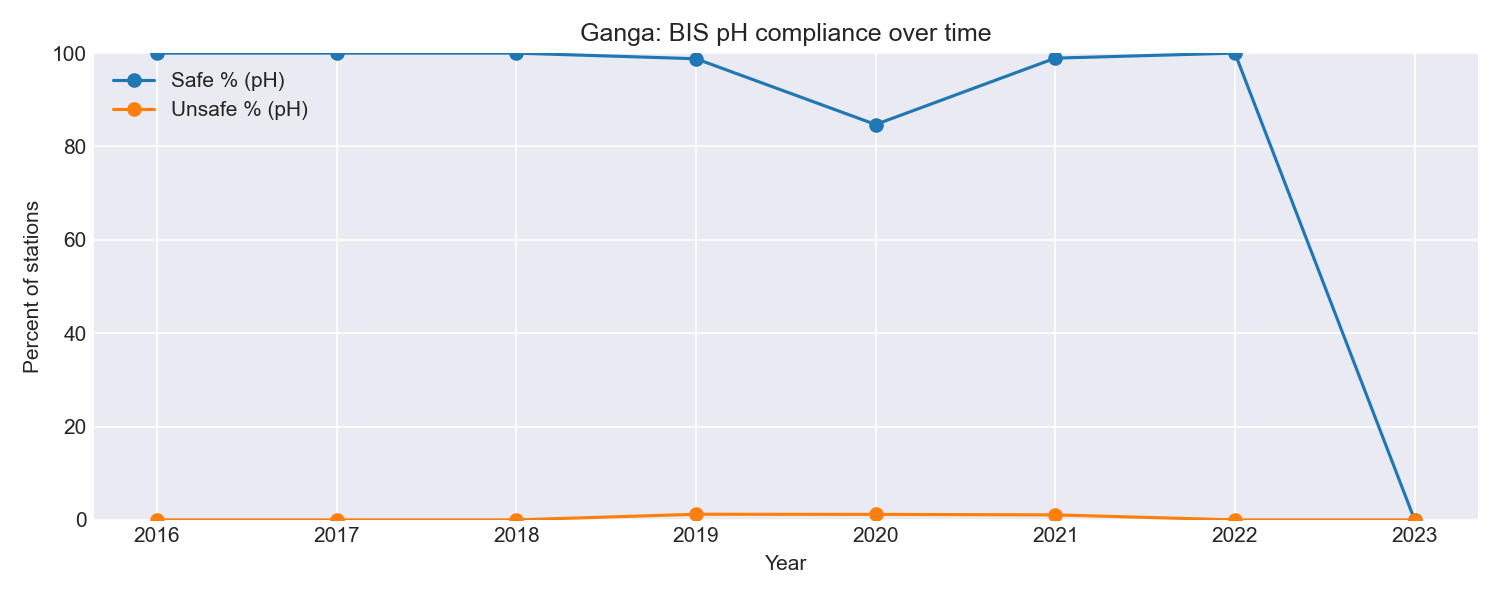
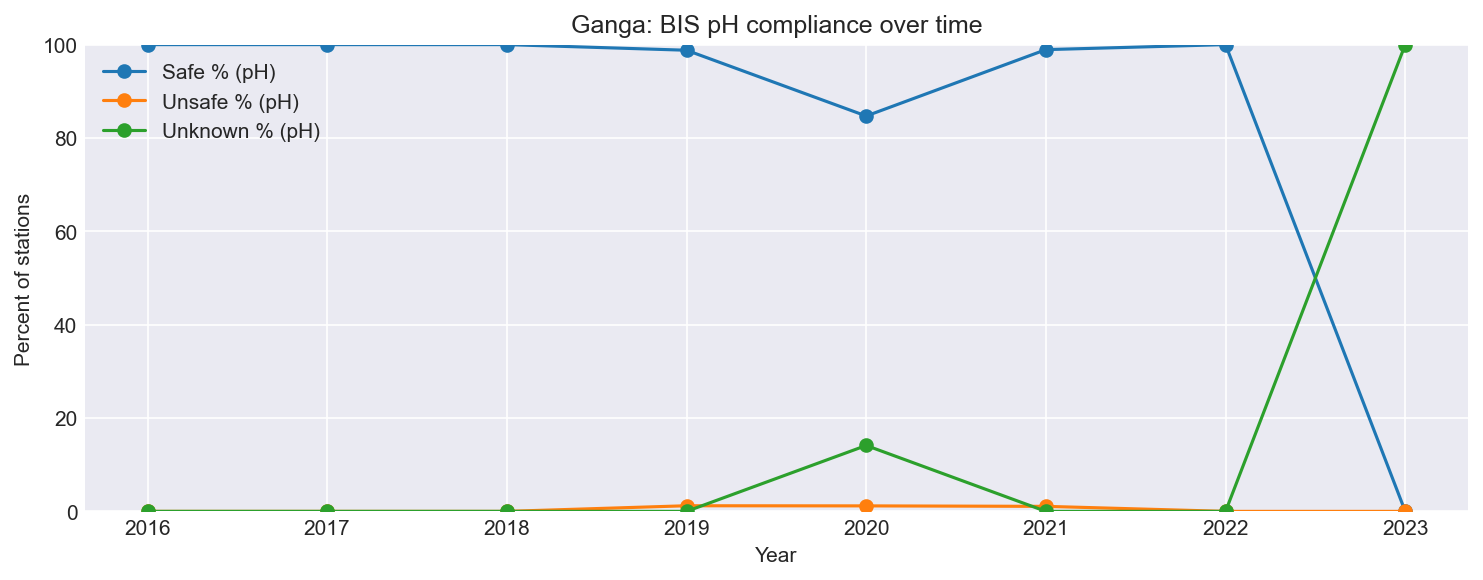
small update

diff --git a/scripts/river_analysis_and_plots.py b/scripts/river_analysis_and_plots.py
@@ -196,14 +196,12 @@ def analyze_river(df, river_name, out_dir):
         plt.title(f"{river_name}: yearly mean pH by state")
         plt.xlabel("Year")
         plt.ylabel("pH")
-        # Move legend below the plot to avoid covering x‑axis
         plt.legend(loc="upper center", bbox_to_anchor=(0.5, -0.15),
                    ncol=3, fontsize=8)
-        plt.subplots_adjust(bottom=0.25)  # extra space for legend
+        plt.subplots_adjust(bottom=0.25)
         plt.savefig(os.path.join(out_dir, f"{base}_pH_trend.png"), dpi=150,
                     bbox_inches="tight")
         plt.close()
-
 
     # 2) Station x Year pH heatmap
     piv = sub.pivot_table(index="station", columns="year", values="pH", aggfunc="mean")
@@ -228,50 +226,65 @@ def analyze_river(df, river_name, out_dir):
         plt.savefig(os.path.join(out_dir, f"{base}_pH_top5.png"), dpi=150)
         plt.close()
 
-    # 4) BIS pH compliance over time
+    # 4) BIS pH compliance over time (SAFE/UNSAFE/UNKNOWN)
     yearly_bis = (
         sub.assign(year=sub["year"].astype(int))
            .groupby(["year","bis_status"])["station"].nunique()
            .unstack(fill_value=0)
            .reset_index()
     )
-    yearly_bis["TOTAL"] = yearly_bis.drop(columns=["year"]).sum(axis=1)
     for k in ["SAFE","UNSAFE","UNKNOWN"]:
-        if k not in yearly_bis.columns: yearly_bis[k] = 0
-    yearly_bis["SAFE_%"] = 100.0 * yearly_bis["SAFE"] / yearly_bis["TOTAL"].replace(0, np.nan)
-    yearly_bis["UNSAFE_%"] = 100.0 * yearly_bis["UNSAFE"] / yearly_bis["TOTAL"].replace(0, np.nan)
+        if k not in yearly_bis.columns:
+            yearly_bis[k] = 0
+    yearly_bis["TOTAL"]     = yearly_bis["SAFE"] + yearly_bis["UNSAFE"] + yearly_bis["UNKNOWN"]
+    yearly_bis["SAFE_%"]    = 100.0 * yearly_bis["SAFE"]    / yearly_bis["TOTAL"].replace(0, np.nan)
+    yearly_bis["UNSAFE_%"]  = 100.0 * yearly_bis["UNSAFE"]  / yearly_bis["TOTAL"].replace(0, np.nan)
+    yearly_bis["UNKNOWN_%"] = 100.0 * yearly_bis["UNKNOWN"] / yearly_bis["TOTAL"].replace(0, np.nan)
+
     plt.figure(figsize=(10,4))
-    plt.plot(yearly_bis["year"], yearly_bis["SAFE_%"], marker="o", label="Safe % (pH)")
+    plt.plot(yearly_bis["year"], yearly_bis["SAFE_%"],   marker="o", label="Safe % (pH)")
     plt.plot(yearly_bis["year"], yearly_bis["UNSAFE_%"], marker="o", label="Unsafe % (pH)")
-    plt.ylim(0, 100); plt.ylabel("Percent of stations"); plt.xlabel("Year")
+    plt.plot(yearly_bis["year"], yearly_bis["UNKNOWN_%"],marker="o", label="Unknown % (pH)")
+    plt.ylim(0, 100)
+    plt.ylabel("Percent of stations"); plt.xlabel("Year")
     plt.title(f"{river_name}: BIS pH compliance over time")
     plt.legend(); plt.tight_layout()
-    plt.savefig(os.path.join(out_dir, f"{base}_bis_compliance_over_time.png"), dpi=150); plt.close()
-    yearly_bis.to_csv(os.path.join(out_dir, f"{base}_bis_compliance_over_time.csv"), index=False)
+    plt.savefig(os.path.join(out_dir, f"{base}_bis_compliance_over_time.png"),
+                dpi=150, bbox_inches="tight")
+    plt.close()
+    yearly_bis.to_csv(os.path.join(out_dir, f"{base}_bis_compliance_over_time.csv"),
+                      index=False)
 
-    # 5) Composite raw-water compliance over time
+    # 5) Composite raw-water compliance over time (SAFE/UNSAFE/UNKNOWN)
     yearly_raw = (
         sub.assign(year=sub["year"].astype(int))
            .groupby(["year","raw_status"])["station"].nunique()
            .unstack(fill_value=0)
            .reset_index()
     )
-    yearly_raw["TOTAL"] = yearly_raw.drop(columns=["year"]).sum(axis=1)
     for k in ["SAFE","UNSAFE","UNKNOWN"]:
-        if k not in yearly_raw.columns: yearly_raw[k] = 0
-    yearly_raw["SAFE_%"] = 100.0 * yearly_raw["SAFE"] / yearly_raw["TOTAL"].replace(0, np.nan)
-    yearly_raw["UNSAFE_%"] = 100.0 * yearly_raw["UNSAFE"] / yearly_raw["TOTAL"].replace(0, np.nan)
+        if k not in yearly_raw.columns:
+            yearly_raw[k] = 0
+    yearly_raw["TOTAL"]     = yearly_raw["SAFE"] + yearly_raw["UNSAFE"] + yearly_raw["UNKNOWN"]
+    yearly_raw["SAFE_%"]    = 100.0 * yearly_raw["SAFE"]    / yearly_raw["TOTAL"].replace(0, np.nan)
+    yearly_raw["UNSAFE_%"]  = 100.0 * yearly_raw["UNSAFE"]  / yearly_raw["TOTAL"].replace(0, np.nan)
+    yearly_raw["UNKNOWN_%"] = 100.0 * yearly_raw["UNKNOWN"] / yearly_raw["TOTAL"].replace(0, np.nan)
+
     plt.figure(figsize=(10,4))
-    plt.plot(yearly_raw["year"], yearly_raw["SAFE_%"], marker="o", label="Safe % (composite)")
+    plt.plot(yearly_raw["year"], yearly_raw["SAFE_%"],   marker="o", label="Safe % (composite)")
     plt.plot(yearly_raw["year"], yearly_raw["UNSAFE_%"], marker="o", label="Unsafe % (composite)")
-    plt.ylim(0, 100); plt.ylabel("Percent of stations"); plt.xlabel("Year")
+    plt.plot(yearly_raw["year"], yearly_raw["UNKNOWN_%"],marker="o", label="Unknown % (composite)")
+    plt.ylim(0, 100)
+    plt.ylabel("Percent of stations"); plt.xlabel("Year")
     plt.title(f"{river_name}: raw-water composite compliance over time")
     plt.legend(); plt.tight_layout()
-    plt.savefig(os.path.join(out_dir, f"{base}_raw_compliance_over_time.png"), dpi=150); plt.close()
-    yearly_raw.to_csv(os.path.join(out_dir, f"{base}_raw_compliance_over_time.csv"), index=False)
+    plt.savefig(os.path.join(out_dir, f"{base}_raw_compliance_over_time.png"),
+                dpi=150, bbox_inches="tight")
+    plt.close()
+    yearly_raw.to_csv(os.path.join(out_dir, f"{base}_raw_compliance_over_time.csv"),
+                      index=False)
 
-
-        # 6) State-wise compliance (latest year) for both gates
+    # 6) State-wise compliance (latest year) for both gates
     latest_year = int(latest["year"].max())
 
     def state_comp(df_latest, col, tag):
@@ -291,14 +304,12 @@ def analyze_river(df, river_name, out_dir):
         plt.bar(x - barw/2, st["SAFE"], width=barw, label="Safe")
         plt.bar(x + barw/2, st["UNSAFE"], width=barw, label="Unsafe")
 
-        # Rotate x labels and shrink font
         labels = st["state"].astype(str).tolist()
         plt.xticks(x, labels, rotation=45, ha="right", fontsize=8)
 
         plt.ylabel("Stations")
         plt.title(f"{river_name}: {tag} compliance (latest {latest_year})")
         plt.legend()
-        # Extra bottom margin so long labels stay inside figure
         plt.subplots_adjust(bottom=0.3)
         plt.savefig(os.path.join(
             out_dir,
